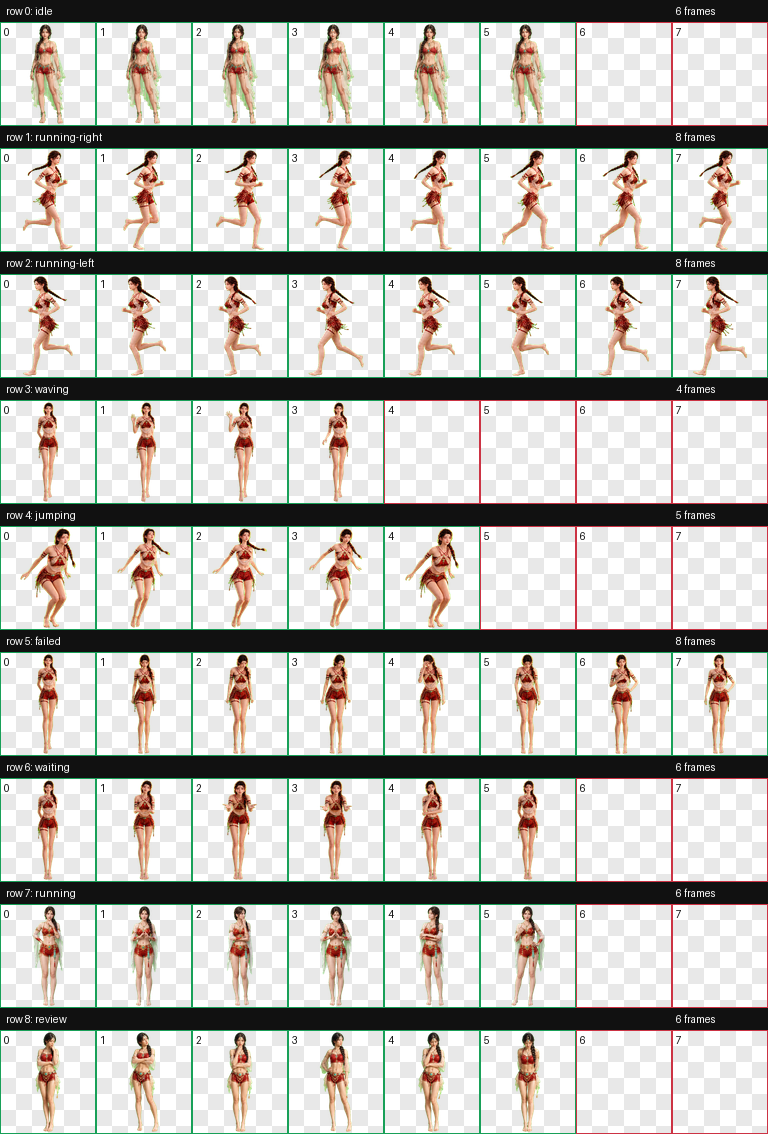
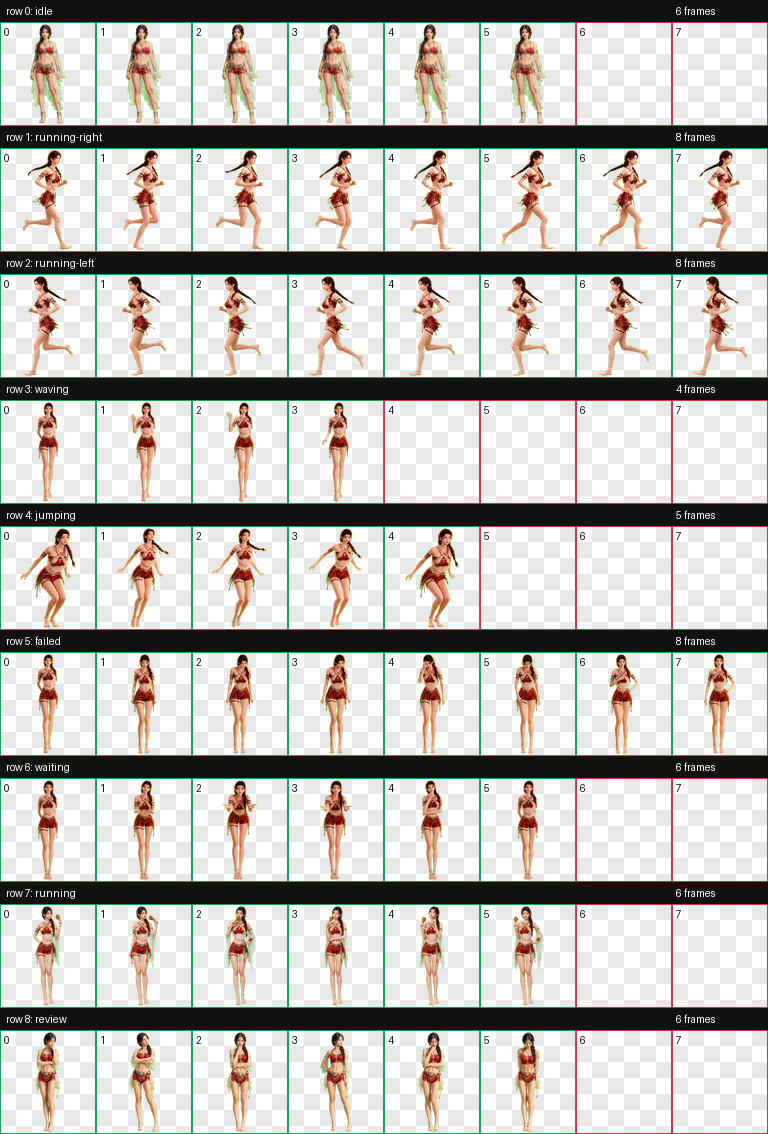
Add chicken drumstick thinking animation

diff --git a/README.md b/README.md
@@ -13,7 +13,7 @@ Chinese-fantasy character image.
 - Jumping
 - Failed or blocked reaction
 - Waiting for input
-- Working
+- Thinking while eating a roasted chicken drumstick
 - Reviewing
 
 Individual animation previews are available in [`previews/`](previews/).